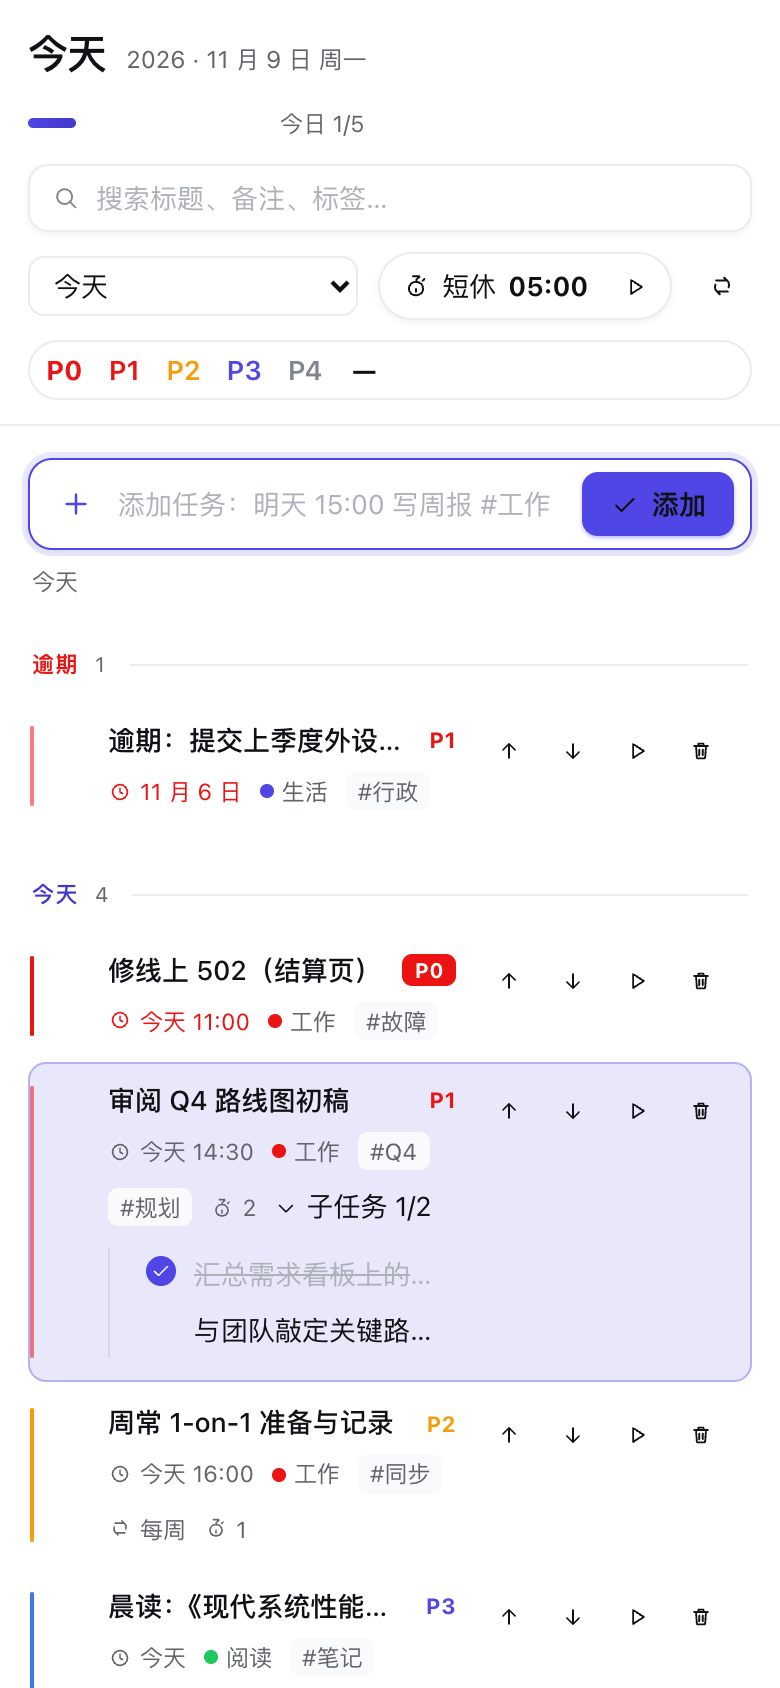
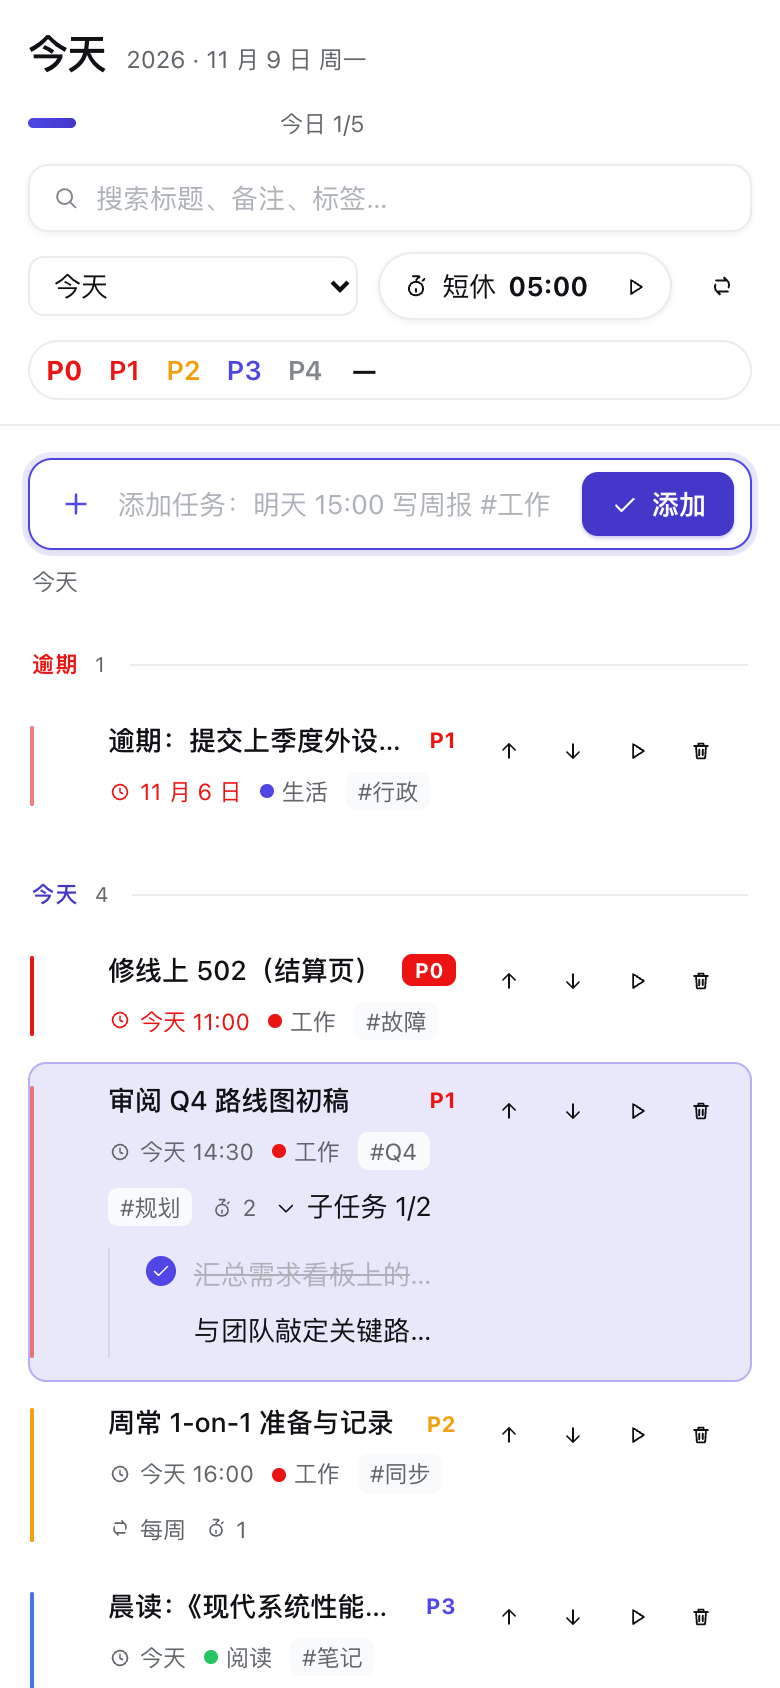
fix: make filled buttons/chips use explicit white text; release 0.2.3
- root cause: .todo-root button{color:inherit} outranked button color, so
  primary button label inherited dark text on the indigo fill (hard to read)
- raise specificity (.todo-root .todo-btn-primary etc.) and use an explicit
  --todo-on-accent token: white on #4338ca solid = 7.8:1 in light, dark ink in dark
- solid accent for primary button, quick-add, active mode/preset with white text
- bump version to 0.2.3 so publish.yml actually ships it

Changed region(s): [[0.7385, 0.2773, 0.9538, 0.3389]]

diff --git a/lib/client.js b/lib/client.js
@@ -5408,6 +5408,7 @@ window.__ModuleLoader__.load({
   --todo-accent-ink: #4338ca;
   --todo-accent-tint: color-mix(in oklab, #4f46e5 12%, transparent);
   --todo-accent-contrast: #ffffff;
+  --todo-on-accent: #ffffff;
 }
 body[data-ds-dark-theme] .todo-root {
   --todo-accent: #8b85ff;
@@ -5415,6 +5416,7 @@ body[data-ds-dark-theme] .todo-root {
   --todo-accent-ink: #b8b3ff;
   --todo-accent-tint: color-mix(in oklab, #8b85ff 15%, transparent);
   --todo-accent-contrast: #0c0a1e;
+  --todo-on-accent: #0c0a1e;
 }
 /* 宿主侧边栏 / 输入框 dock 的品牌色（位于 .todo-root 之外，用全局变量承载） */
 :root {
@@ -5655,7 +5657,8 @@ body[data-ds-dark-theme] .todo-row-timer.is-running { color: #0c0a1e; }
 .todo-pom-clock.todo-mode-long .todo-pom-ring-fill { stroke: var(--todo-info); }
 .todo-pom-time { font-weight: 300; letter-spacing: -0.03em; }
 .todo-pom-modes { background: var(--dsw-alias-bg-layer-2); border-radius: 999px; padding: 3px; }
-.todo-pom-mode.is-active { box-shadow: var(--todo-shadow-sm); }
+.todo-root .todo-pom-mode.is-active { background: var(--todo-accent-strong); color: var(--todo-on-accent); box-shadow: none; }
+.todo-root .todo-pom-mode.is-active span { color: var(--todo-on-accent); opacity: 0.85; }
 .todo-stat, .todo-pom-chart, .todo-pom-settings, .todo-pom-log { border-radius: var(--todo-r-md); box-shadow: var(--todo-shadow-sm); }
 .todo-pom-bar-fill { background: color-mix(in oklab, var(--todo-accent) 78%, transparent); }
 .todo-pom-controls .todo-btn-primary { box-shadow: 0 1px 2px color-mix(in oklab, var(--todo-accent) 32%, transparent); }
@@ -5690,7 +5693,11 @@ body[data-ds-dark-theme] .todo-row-timer.is-running { color: #0c0a1e; }
  * 浅色主题下 caption≈2.1:1、tertiary≈3.7:1，均低于 4.5:1 的企业级底线；
  * 信息性文字统一提到 secondary（≈5.8:1），仅装饰元素保留 caption。
  * ================================================================== */
-.todo-btn-primary { color: var(--todo-accent-contrast); }
+.todo-root .todo-btn-primary { background: var(--todo-accent-strong); border-color: var(--todo-accent-strong); color: var(--todo-on-accent); box-shadow: 0 1px 2px color-mix(in oklab, var(--todo-accent-strong) 32%, transparent); }
+.todo-root .todo-btn-primary:hover { background: color-mix(in oklab, var(--todo-accent-strong) 84%, var(--dsw-alias-label-primary)); color: var(--todo-on-accent); }
+.todo-root .todo-quick-submit { background: var(--todo-accent-strong); color: var(--todo-on-accent); box-shadow: 0 1px 2px color-mix(in oklab, var(--todo-accent-strong) 30%, transparent); }
+.todo-root .todo-quick-submit:hover { background: color-mix(in oklab, var(--todo-accent-strong) 84%, var(--dsw-alias-label-primary)); color: var(--todo-on-accent); }
+.todo-root .todo-check.is-checked { color: var(--todo-on-accent); }
 .todo-pom-mode { color: var(--dsw-alias-label-secondary); }
 .todo-pom-mode span { color: var(--dsw-alias-label-secondary); opacity: 1; }
 .todo-pom-state { color: var(--dsw-alias-label-secondary); }
@@ -5705,7 +5712,7 @@ body[data-ds-dark-theme] .todo-row-timer.is-running { color: #0c0a1e; }
 .todo-stat-sub { color: var(--dsw-alias-label-secondary); }
 .todo-setting { color: var(--dsw-alias-label-secondary); }
 .todo-pom-preset { color: var(--dsw-alias-label-secondary); }
-.todo-pom-preset.is-active { color: var(--todo-accent-ink); border-color: var(--todo-accent); background: var(--todo-accent-tint); font-weight: 600; }
+.todo-root .todo-pom-preset.is-active { color: var(--todo-on-accent); border-color: var(--todo-accent-strong); background: var(--todo-accent-strong); font-weight: 600; }
 .todo-topbar-date { color: var(--dsw-alias-label-secondary); }
 .todo-group-count { color: var(--dsw-alias-label-secondary); }
 .todo-nav-count { color: var(--dsw-alias-label-secondary); }
